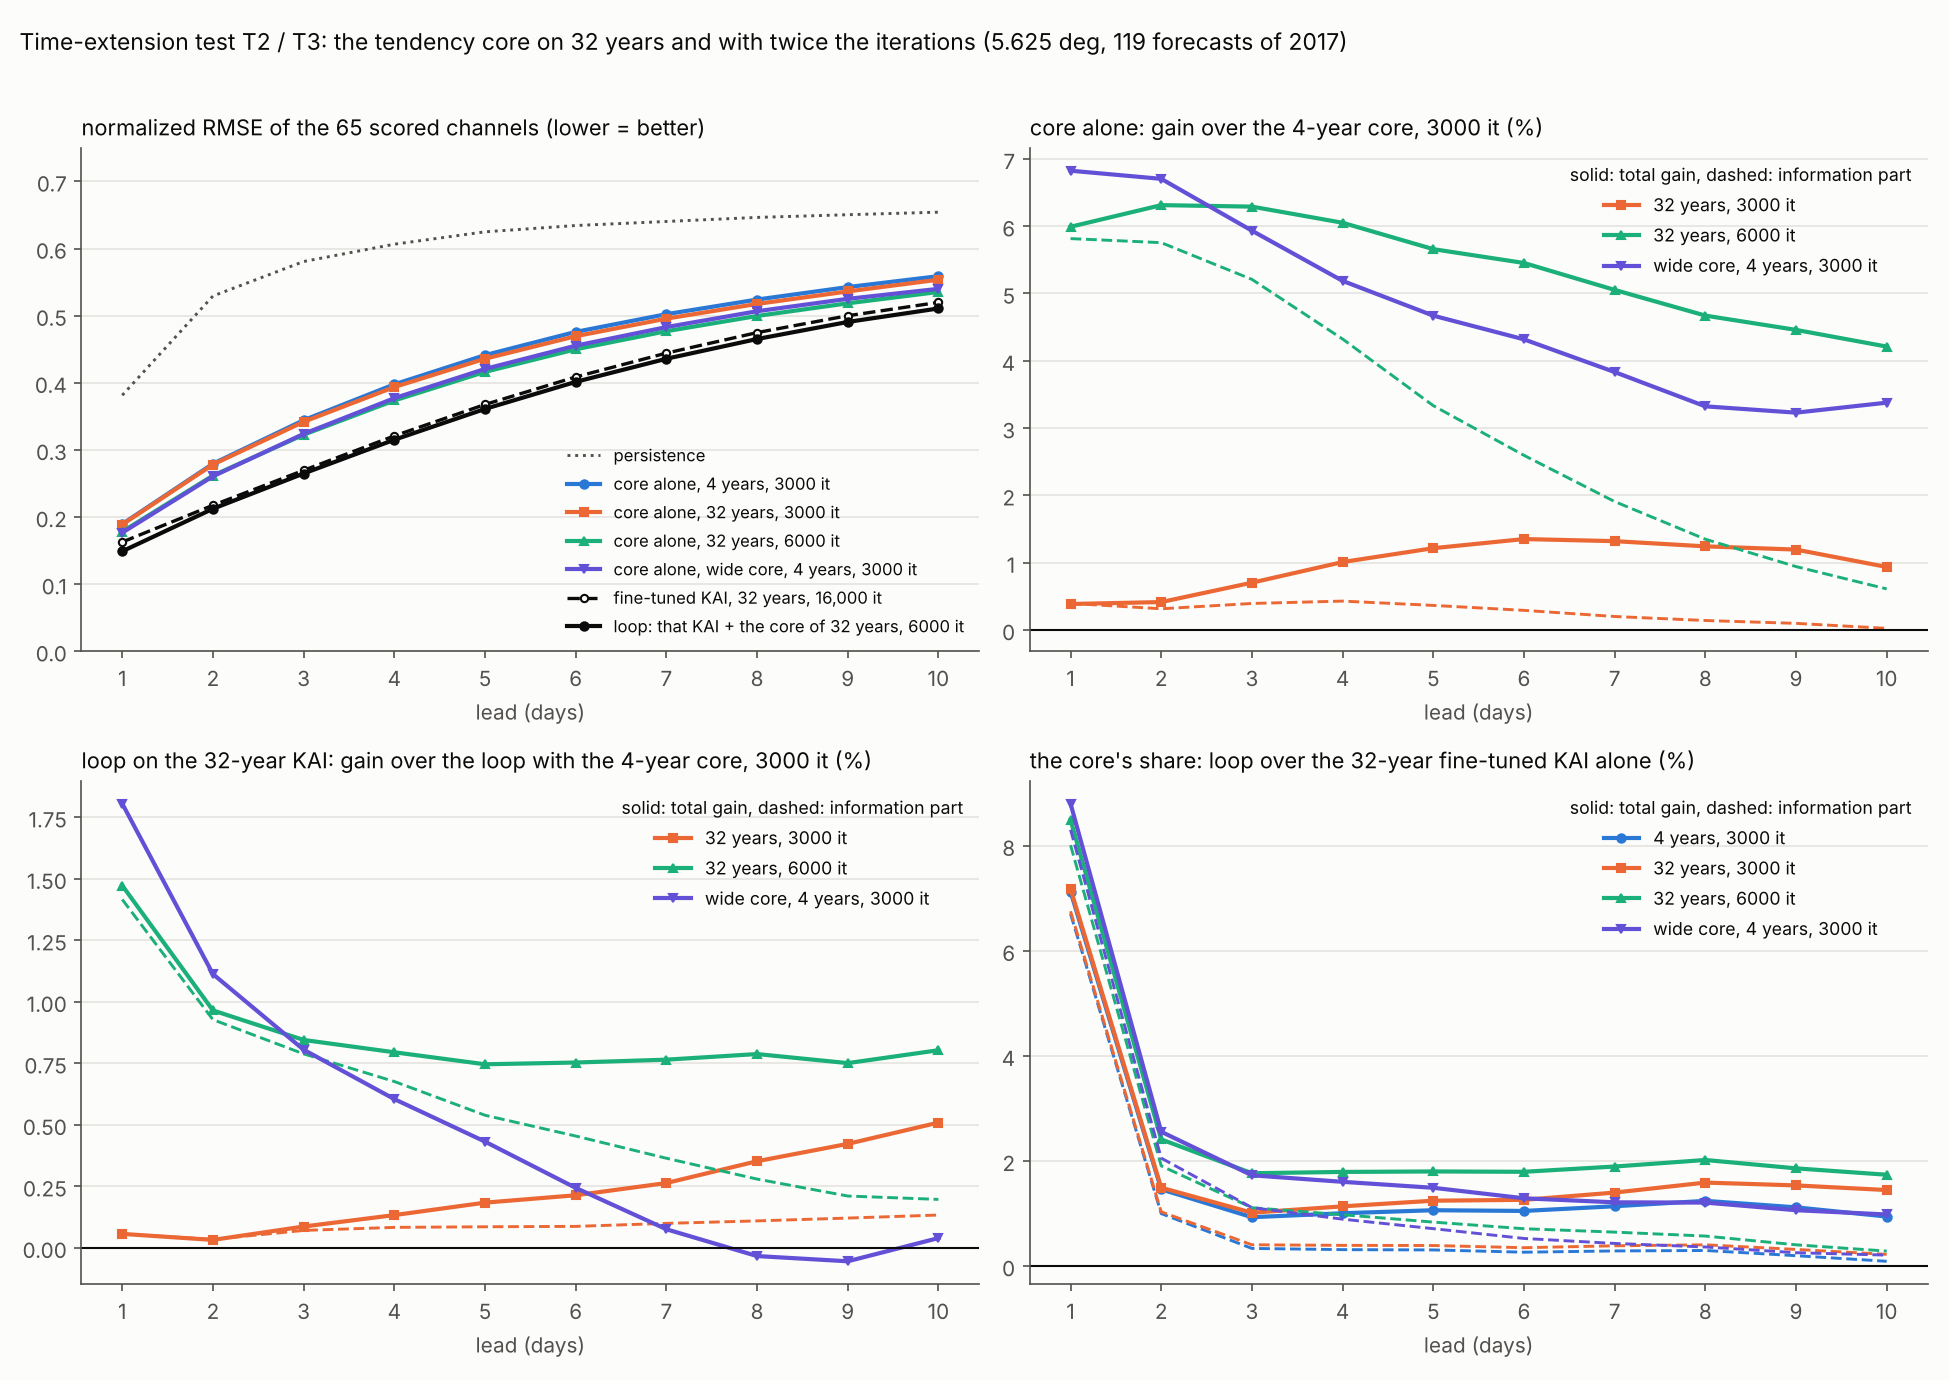
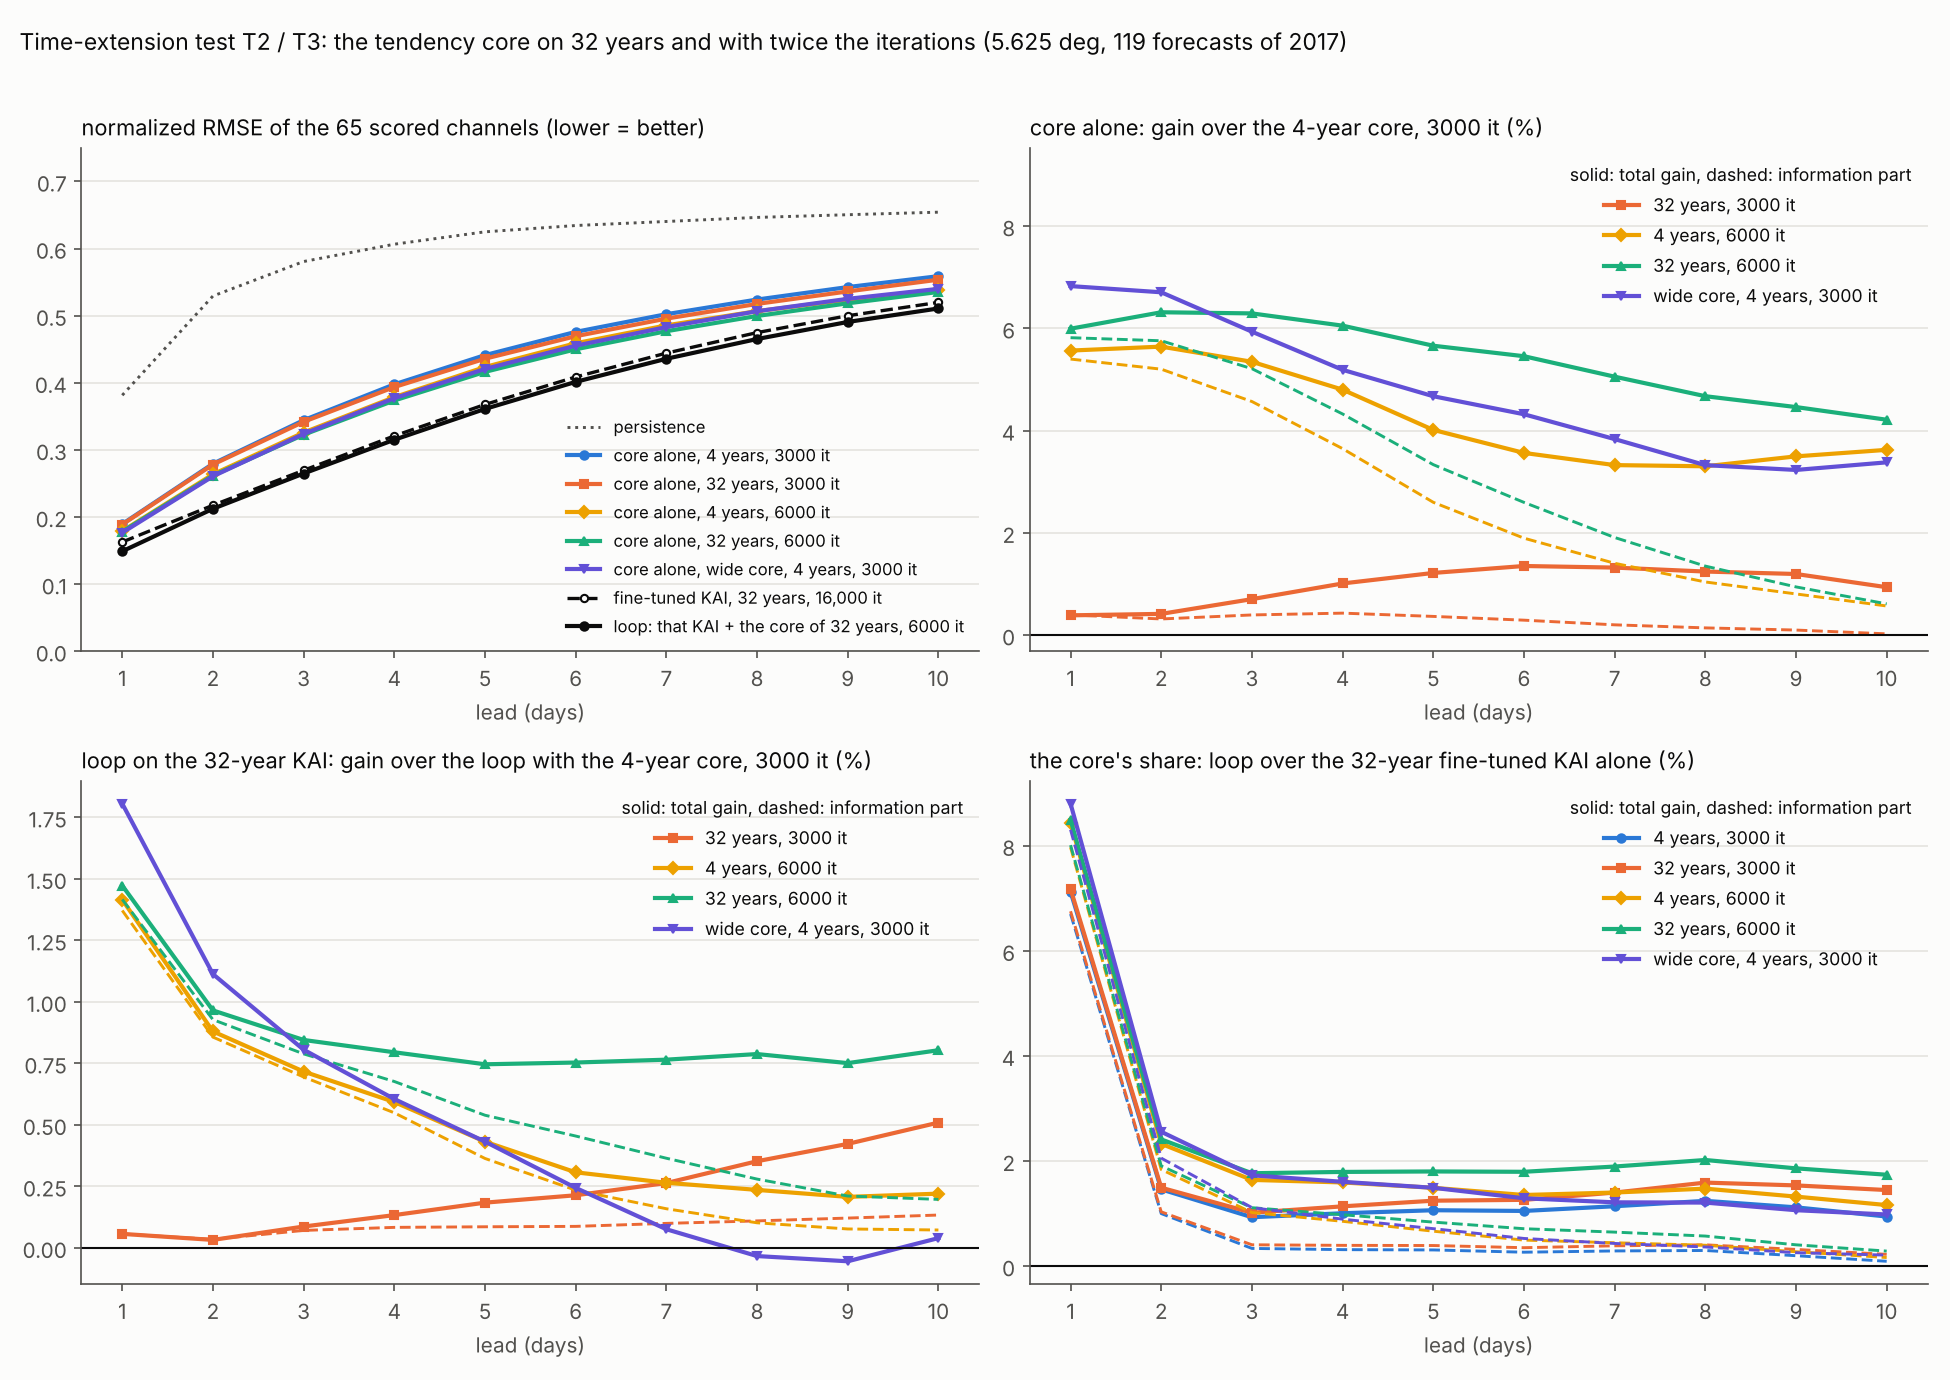
Time extension doc: score T3 (control: 4-year core with iterations x 2)
The control separates years from iterations. Iterations x 2 alone give +5.6/+5.3/+4.0/+3.3/+3.6 %
for the core alone (4 years), the same as at 32 years; the years add +0.5/+1.0/+1.7/+1.8/+0.6 %
at 6000 iterations (information +0.4/+0.7/+0.8/+0.5/0.0) and +0.1..+0.6 % in the coupled loop
on the 32-year KAI. The gain of T3a was an undertrained core trained longer, not the years.
fig_T3 now has the control line.

Claude-Session: https://claude.ai/code/session_01Hhac8noTWqo3Xz1rCmnjmf

diff --git a/scripts/plot_kai_time_extension.py b/scripts/plot_kai_time_extension.py
@@ -254,6 +254,7 @@ def fig_T3(run, out):
     p = ax[0, 1]
     for tag, c, name, mk in cores[1:]:
         gain(p, tag, cores[0][0], c, name, mk)
+    p.set_ylim(None, 1.33 * p.get_ylim()[1])  # room for the legend above the lines
     finish(p, "core alone: gain over the 4-year core, 3000 it (%)")
 
     p = ax[1, 0]

diff --git a/docs/kai_time_extension.md b/docs/kai_time_extension.md
@@ -4,7 +4,7 @@
 
 이렇게 읽었습니다: 학습 기간을 4년에서 32년으로 늘릴 때 (1) 지금 크기의 모델이 그 자료를 쓸 수 있는지, (2) 크기와 반복 수 가운데 무엇을 함께 늘려야 하는지, (3) 정규화와 기후값은 그대로 두어도 되는지를 5.625° CPU 시험으로 잽니다. 이 문서의 KAI는 5.625° 시험용으로 줄인 작은 KAI(0.43 M, 우리가 4년으로 다시 학습한 것)이고 원본 checkpoint(7.57 M, 32년)가 아닙니다.
 
-**상태(2026-11-15 04:00 KST): 진단 두 가지(2, 3절), KAI 쪽 채점 T1(5절)과 T1b(6절), 32년 core의 채점 T2(7.1절), 32년 반복 2배 core의 채점 T3a(7.2절), driver 설정(8절)이 끝났습니다. 4년 반복 2배 대조(T3)와 core의 적응 단계(T2b)는 진행 중입니다.**
+**상태(2026-11-15 09:20 KST): 진단 두 가지(2, 3절), KAI 쪽 채점 T1(5절)과 T1b(6절), core 쪽 채점 T2(7.1절), T3a(7.2절), T3(7.3절), driver 설정(8절)이 끝났습니다. core의 적응 단계(T2b)는 진행 중입니다.**
 
 ## 요약 (지금까지)
 
@@ -16,7 +16,7 @@
 6. **최근 연도 적응 단계는 전체로는 손해이고, 이득은 느린 평균 상태에만 있습니다.** 32년 학습 뒤 최근 4년으로 미세조정하면 총 +0.1 / −0.2 / −0.4 / −0.6 / −0.7 %입니다. 띠 평균(k0)은 +1.1 / +0.7 / +0.7 / +1.1 / +1.8 %, t2m은 10일에 +1.9 % 좋아지고 파동(행성 규모, 종관 규모)은 −0.3 ~ −1.0 % 나빠집니다. 가중치 전체를 최근 연도에 맞추는 구조는 필요하지 않고, 필요가 있다면 평균 상태만 맞추는 작은 구조입니다(5.6절).
 7. **기간이 일찍 끝나도 나빠지지 않습니다.** 1980 ~ 2011년으로 학습한 KAI(시험 연도보다 6년 일찍 끝남)는 1984 ~ 2015년 KAI와 −0.2 ~ +0.9 % 안에서 같고, 그 KAI를 2012 ~ 2015년으로 적응시켜도 +0.3 / −0.1 / −0.6 / −1.0 / −1.0 %입니다. 띠 평균은 전체 오차의 8 ~ 10 %라서 평균 상태만 맞추는 구조의 상한은 총 +0.1 ~ +0.2 %입니다. KAI 쪽에는 시간 적응 구조를 올릴 근거가 없습니다(6절).
 8. **core도 연도만으로는 거의 움직이지 않습니다.** baseline core를 32년으로(반복 수 그대로) 학습하면 혼자 +0.4 / +0.7 / +1.2 / +1.3 / +0.9 %(정보 항 +0.4까지), 32년 KAI 위의 되먹임에서 +0.1 / +0.1 / +0.2 / +0.3 / +0.5 %입니다. core의 몫은 +7.1 / +0.9 / +1.1 / +1.1 / +0.9 %에서 +7.2 / +1.0 / +1.2 / +1.4 / +1.4 %가 됩니다(7.1절).
-9. **반복 수를 같이 늘리면 core도 좋아집니다.** 32년에 반복 2배(6000회)로 학습한 baseline core는 32년 반복 1배 core보다 혼자 +5.6 / +5.6 / +4.5 / +3.8 / +3.3 %(정보 항 +5.4 / +4.9 / +3.0 / +1.7 / +0.6, 650칸 전부 좋아짐)이고, 파라미터가 두 배인 넓은 4년 core와 같은 수준이 됩니다. 32년 KAI 위의 되먹임에서는 +1.4 / +0.8 / +0.6 / +0.5 / +0.3 %이고 core의 몫은 +7.2 / +1.0 / +1.2 / +1.4 / +1.4 %에서 +8.5 / +1.8 / +1.8 / +1.9 / +1.7 %가 됩니다. 이 이득이 연도의 것인지 반복 수의 것인지는 4년 반복 2배 대조(T3)가 가릅니다(7.2절).
+9. **core를 올리는 것도 연도가 아니라 반복 수입니다.** baseline core를 4년 그대로 반복 2배(6000회)로 학습하면 혼자 +5.6 / +5.3 / +4.0 / +3.3 / +3.6 %(정보 항 +5.4 / +4.6 / +2.6 / +1.4 / +0.6)이고, 파라미터가 두 배인 넓은 core와 같은 수준이 됩니다. 그 위에 연도를 32년으로 늘린 몫은 혼자 +0.5 / +1.0 / +1.7 / +1.8 / +0.6 %(정보 항 +0.4 / +0.7 / +0.8 / +0.5 / +0.0), 32년 KAI 위의 되먹임에서 +0.1 / +0.1 / +0.3 / +0.5 / +0.6 %입니다. core의 몫은 4년 3000회 +7.1 / +0.9 / +1.1 / +1.1 / +0.9 %, 4년 6000회 +8.4 / +1.6 / +1.5 / +1.4 / +1.2 %, 32년 6000회 +8.5 / +1.8 / +1.8 / +1.9 / +1.7 %입니다. 지금까지의 core는 덜 익은 상태였고, 연도의 효과는 반복 2배에서도 학습 한 번의 변동(1 % 안팎) 근처입니다(7.2, 7.3절).
 10. 진단에서 나온 것(2, 3절): 4년 모델의 과적합 폭은 +1.0 ~ +2.2 %뿐입니다. 기후값 추세 보정은 필요하지 않습니다(32년 기후값이 4년 것보다 2017년에 1.4 % 가깝고, 예외는 t2m 하나). 지금까지의 ACC는 4년 기후값의 잡음 때문에 조금 높게 나와 있습니다(10일 0.214가 32년 기준 0.191). 정규화는 기간을 바꿔도 0.03 표준편차 이내로 같습니다.
 
 ![1차 채점](kai_time_extension/fig_T1.png)
@@ -485,7 +485,94 @@ core의 몫 (32년 KAI 위의 되먹임 대 32년 KAI 혼자):
 
 ![core 쪽의 시간 확장](kai_time_extension/fig_T3.png)
 
-그림: 왼쪽 위는 core 혼자의 nRMSE, 오른쪽 위는 4년 3000회 core 대비 혼자의 이득, 왼쪽 아래는 32년 KAI 위의 되먹임에서 같은 비교, 오른쪽 아래는 core의 몫입니다. 실선은 총 이득, 점선은 정보 항입니다. 4년 반복 2배 대조의 선은 T3 뒤에 추가됩니다.
+그림: 왼쪽 위는 core 혼자의 nRMSE, 오른쪽 위는 4년 3000회 core 대비 혼자의 이득, 왼쪽 아래는 32년 KAI 위의 되먹임에서 같은 비교, 오른쪽 아래는 core의 몫입니다. 실선은 총 이득, 점선은 정보 항입니다. 노란 선(4년, 6000회)은 7.3절의 대조입니다.
+
+### 7.3 T3: 대조, 4년 그대로 반복 수만 2배 (연도인가 반복 수인가)
+
+7.2절의 core는 연도 8배와 반복 2배를 함께 받았습니다. 대조로 baseline core를 4년(2012 ~ 2015) 그대로 6000회 학습했습니다(`core_gngmz8_x2`, CPU 4.8시간). 검증 loss(2016년): 4년 3000회 0.2379, 32년 3000회 0.2362, 4년 6000회 0.2259, 32년 6000회 0.2239.
+
+| 모델 | 1일 | 3일 | 5일 | 7일 | 10일 | ACC 5일 | ACC 10일 |
+|---|---|---|---|---|---|---|---|
+| core 4년, 3000회 (혼자) (`core_gngmz8`) | 0.190 | 0.344 | 0.441 | 0.502 | 0.559 | 0.513 | 0.175 |
+| core 4년, 6000회 (혼자) (`core_gngmz8_x2`) | 0.179 | 0.326 | 0.423 | 0.485 | 0.539 | 0.554 | 0.208 |
+| core 32년, 3000회 (혼자) (`core_gngmz8_y32`) | 0.189 | 0.342 | 0.436 | 0.496 | 0.554 | 0.520 | 0.176 |
+| core 32년, 6000회 (혼자) (`core_gngmz8_y32x2`) | 0.178 | 0.323 | 0.416 | 0.477 | 0.535 | 0.564 | 0.208 |
+| 넓은 core 4년, 3000회 (혼자) (`core_gngmz8w`) | 0.177 | 0.324 | 0.421 | 0.483 | 0.540 | 0.561 | 0.218 |
+| 미세조정 KAI 4년 (`kai_ro`) | 0.223 | 0.337 | 0.423 | 0.483 | 0.538 | 0.526 | 0.214 |
+| 미세조정 KAI 32년, 반복 8배 (`kai_y32x8ro`) | 0.163 | 0.270 | 0.368 | 0.444 | 0.520 | 0.662 | 0.303 |
+| 되먹임: 4년 KAI + core 4년 3000회 | 0.178 | 0.315 | 0.407 | 0.471 | 0.527 | 0.575 | 0.239 |
+| 되먹임: 4년 KAI + core 4년 6000회 | 0.172 | 0.306 | 0.400 | 0.466 | 0.524 | 0.594 | 0.252 |
+| 되먹임: 4년 KAI + core 32년 6000회 | 0.171 | 0.304 | 0.395 | 0.459 | 0.517 | 0.603 | 0.258 |
+| 되먹임: 32년 KAI + core 4년 3000회 | 0.151 | 0.267 | 0.364 | 0.439 | 0.515 | 0.672 | 0.310 |
+| 되먹임: 32년 KAI + core 4년 6000회 | 0.149 | 0.265 | 0.362 | 0.438 | 0.514 | 0.677 | 0.312 |
+| 되먹임: 32년 KAI + core 32년 3000회 | 0.151 | 0.267 | 0.363 | 0.438 | 0.512 | 0.674 | 0.313 |
+| 되먹임: 32년 KAI + core 32년 6000회 | 0.149 | 0.265 | 0.361 | 0.436 | 0.511 | 0.679 | 0.317 |
+| 되먹임: 32년 KAI + 넓은 core | 0.148 | 0.265 | 0.362 | 0.439 | 0.515 | 0.678 | 0.314 |
+| 혼합: 32년 KAI + core 4년 6000회 | 0.149 | 0.264 | 0.359 | 0.426 | 0.484 | 0.677 | 0.317 |
+| 혼합: 32년 KAI + core 32년 6000회 | 0.149 | 0.264 | 0.358 | 0.425 | 0.484 | 0.678 | 0.314 |
+
+연도와 반복 수를 따로 본 것 (core 혼자):
+
+| 비교 | 총 이득 % | 정보 항 | 진폭 항 | 유의하게 좋아진 / 나빠진 칸 (650) |
+|---|---|---|---|---|
+| 반복 2배, 4년에서 (4년 6000회 대 4년 3000회) | +5.6 / +5.3 / +4.0 / +3.3 / +3.6 | +5.4 / +4.6 / +2.6 / +1.4 / +0.6 | +0.2 / +0.8 / +1.4 / +1.9 / +3.1 | 636 / 0 |
+| 반복 2배, 32년에서 (32년 6000회 대 32년 3000회) | +5.6 / +5.6 / +4.5 / +3.8 / +3.3 | +5.4 / +4.9 / +3.0 / +1.7 / +0.6 | +0.2 / +0.8 / +1.5 / +2.0 / +2.7 | 650 / 0 |
+| 연도 8배, 3000회에서 (32년 3000회 대 4년 3000회, 7.1절) | +0.4 / +0.7 / +1.2 / +1.3 / +0.9 | +0.4 / +0.4 / +0.4 / +0.2 / +0.0 | −0.0 / +0.3 / +0.8 / +1.1 / +0.9 | 484 / 24 |
+| 연도 8배, 6000회에서 (32년 6000회 대 4년 6000회) | +0.5 / +1.0 / +1.7 / +1.8 / +0.6 | +0.4 / +0.7 / +0.8 / +0.5 / +0.0 | +0.0 / +0.3 / +0.9 / +1.2 / +0.5 | 507 / 14 |
+| 둘 다 (32년 6000회 대 4년 3000회) | +6.0 / +6.3 / +5.7 / +5.1 / +4.2 | +5.8 / +5.2 / +3.3 / +1.9 / +0.6 | +0.2 / +1.1 / +2.3 / +3.1 / +3.6 | 644 / 0 |
+
+되먹임에서:
+
+| 비교 | 총 이득 % | 정보 항 | 진폭 항 | 유의하게 좋아진 / 나빠진 칸 (650) |
+|---|---|---|---|---|
+| 32년 KAI 위, 반복 2배 (4년 core) | +1.4 / +0.7 / +0.4 / +0.3 / +0.2 | +1.4 / +0.7 / +0.4 / +0.2 / +0.1 | +0.0 / +0.0 / +0.1 / +0.1 / +0.1 | 486 / 11 |
+| 32년 KAI 위, 반복 2배 (32년 core) | +1.4 / +0.8 / +0.6 / +0.5 / +0.3 | +1.4 / +0.7 / +0.5 / +0.3 / +0.1 | +0.0 / +0.0 / +0.1 / +0.2 / +0.2 | 559 / 2 |
+| 32년 KAI 위, 연도 8배 (3000회, 7.1절) | +0.1 / +0.1 / +0.2 / +0.3 / +0.5 | +0.1 / +0.1 / +0.1 / +0.1 / +0.1 | +0.0 / +0.0 / +0.1 / +0.1 / +0.3 | 268 / 23 |
+| 32년 KAI 위, 연도 8배 (6000회) | +0.1 / +0.1 / +0.3 / +0.5 / +0.6 | +0.0 / +0.1 / +0.2 / +0.2 / +0.1 | +0.0 / +0.0 / +0.1 / +0.3 / +0.4 | 352 / 9 |
+| 32년 KAI 위, 둘 다 | +1.5 / +0.8 / +0.7 / +0.8 / +0.8 | +1.4 / +0.8 / +0.5 / +0.4 / +0.2 | +0.0 / +0.0 / +0.2 / +0.3 / +0.5 | 623 / 0 |
+| 4년 KAI 위, 둘 다 | +4.0 / +3.4 / +3.0 / +2.6 / +1.9 | +3.9 / +3.1 / +2.2 / +1.2 / +0.4 | +0.1 / +0.2 / +0.8 / +1.3 / +1.4 | 646 / 0 |
+
+core의 몫 (32년 KAI 위의 되먹임 대 32년 KAI 혼자):
+
+| core | 총 이득 % | 정보 항 | 진폭 항 | 유의하게 좋아진 / 나빠진 칸 (650) |
+|---|---|---|---|---|
+| 4년, 3000회 | +7.1 / +0.9 / +1.1 / +1.1 / +0.9 | +6.7 / +0.3 / +0.3 / +0.3 / +0.1 | +0.2 / +0.5 / +0.7 / +0.8 / +0.8 | 344 / 37 |
+| 4년, 6000회 | +8.4 / +1.6 / +1.5 / +1.4 / +1.2 | +8.0 / +1.0 / +0.7 / +0.4 / +0.2 | +0.2 / +0.5 / +0.8 / +0.9 / +1.0 | 464 / 12 |
+| 32년, 3000회 | +7.2 / +1.0 / +1.2 / +1.4 / +1.4 | +6.8 / +0.4 / +0.4 / +0.4 / +0.2 | +0.2 / +0.5 / +0.8 / +1.0 / +1.2 | 431 / 31 |
+| 32년, 6000회 | +8.5 / +1.8 / +1.8 / +1.9 / +1.7 | +8.0 / +1.1 / +0.8 / +0.6 / +0.3 | +0.2 / +0.5 / +0.9 / +1.2 / +1.4 | 564 / 5 |
+| 넓은 core 4년, 3000회 | +8.8 / +1.7 / +1.5 / +1.2 / +1.0 | +8.3 / +1.1 / +0.7 / +0.4 / +0.2 | +0.2 / +0.5 / +0.7 / +0.7 / +0.7 | 399 / 14 |
+
+변수별:
+
+| 비교 | t2m | t850 | z500 | u850 | msl |
+|---|---|---|---|---|---|
+| core 혼자: 반복 2배, 4년에서 | +4.5 / +5.0 / +4.0 / +3.0 / +3.2 | +4.5 / +5.2 / +4.1 / +3.0 / +2.8 | +7.6 / +6.0 / +3.6 / +2.0 / +1.3 | +4.9 / +4.8 / +3.3 / +2.7 / +2.5 | +6.9 / +5.6 / +3.2 / +1.7 / +0.1 |
+| core 혼자: 연도 8배, 6000회에서 | +0.8 / +1.2 / +1.3 / +1.6 / +0.2 | +0.4 / +1.3 / +1.7 / +1.5 / +0.3 | +1.4 / +2.3 / +3.0 / +2.9 / +1.3 | +0.5 / +1.2 / +1.8 / +2.2 / −0.4 | +1.2 / +1.4 / +2.5 / +2.2 / +0.6 |
+| 32년 KAI 위의 되먹임: 반복 2배 (4년 core) | +3.1 / +2.4 / +1.8 / +1.2 / +1.1 | +1.8 / +0.7 / +0.6 / +0.5 / +0.8 | +2.5 / +0.7 / +0.2 / −0.0 / +0.1 | +0.9 / +0.5 / +0.2 / +0.2 / +0.3 | +1.6 / +0.6 / +0.2 / +0.2 / +0.3 |
+| 32년 KAI 위의 되먹임: 연도 8배 (6000회) | +0.7 / +0.7 / +0.5 / +0.2 / −0.5 | +0.4 / +0.5 / +0.2 / +0.2 / −0.2 | +0.3 / +0.4 / +0.8 / +0.8 / +0.8 | +0.1 / +0.1 / +0.4 / +0.4 / +0.6 | +0.3 / +0.1 / +0.6 / +0.5 / +0.7 |
+| 4년 6000회 core의 몫, 32년 KAI 위 | +38.3 / +17.7 / +13.8 / +12.3 / +12.4 | +18.3 / +1.5 / +2.1 / +2.7 / +3.1 | +13.0 / +0.4 / +0.8 / +0.7 / −0.4 | +4.4 / +0.2 / +0.7 / +0.8 / +0.4 | +7.5 / +0.1 / +0.9 / +1.0 / +0.7 |
+
+- **7.2절의 이득은 거의 전부 반복 수의 것입니다.** 4년 그대로 반복만 2배로 해도 혼자 +5.6 / +5.3 / +4.0 / +3.3 / +3.6 %이고, 32년에서의 반복 2배(+5.6 / +5.6 / +4.5 / +3.8 / +3.3 %)와 1 ~ 3일에서 같습니다. 7.2절의 취약점 1번이 맞았습니다: "연도 확장의 효과"가 아니라 "덜 익은 core를 더 익힌 효과"입니다. 4년 core의 과적합 폭이 +0.3 %뿐이었던 것(7.1절)과 맞습니다.
+- **연도의 몫은 반복 2배에서 조금 커지지만 여전히 작습니다.** 혼자 +0.5 / +1.0 / +1.7 / +1.8 / +0.6 %이고, 정보 항은 3000회에서의 +0.4 / +0.4 / +0.4 / +0.2 / +0.0에서 +0.4 / +0.7 / +0.8 / +0.5 / +0.0이 됩니다. 3 ~ 5일에서 두 배쯤이지만 1 % 아래입니다. 변수로는 z500(+1.4 / +2.3 / +3.0 / +2.9 / +1.3), msl(+1.2 / +1.4 / +2.5 / +2.2 / +0.6)이 가장 큽니다. 연도와 반복 수를 함께 늘린 것이 각각의 합보다 큰 정도(상승 작용)는 0.0 / +0.3 / +0.5 / +0.5 / −0.3 %p로, 학습 한 번의 변동 안쪽입니다.
+- **32년 KAI 위의 되먹임에서 연도의 몫은 +0.1 / +0.1 / +0.3 / +0.5 / +0.6 %입니다**(정보 항 +0.0 ~ +0.2). 반복 2배의 몫은 +1.4 / +0.7 / +0.4 / +0.3 / +0.2 %입니다. core의 몫으로 보면 4년 3000회 +7.1 / +0.9 / +1.1 / +1.1 / +0.9 %에서 반복 2배로 +8.4 / +1.6 / +1.5 / +1.4 / +1.2 %, 거기에 32년으로 +8.5 / +1.8 / +1.8 / +1.9 / +1.7 %입니다.
+- **약한 KAI 위에서는 같은 core 개선이 훨씬 크게 남습니다.** 4년 KAI 위의 되먹임에서 32년 6000회 core는 4년 3000회 core보다 +4.0 / +3.4 / +3.0 / +2.6 / +1.9 %이고, 32년 KAI 위에서는 +1.5 / +0.8 / +0.7 / +0.8 / +0.8 %입니다. 5.4절과 같은 일입니다: 길게 학습한 KAI가 이미 맞히는 부분이 겹칩니다.
+- **KAI와 같은 그림입니다.** KAI도 연도만으로는 +0.3 ~ +0.9 %였고(5.2절), 연도의 이득(+1.2 ~ +2.5 %)은 반복 8배에서 4년 모델이 과적합으로 넘어간 뒤(과적합 폭 +6.8 %)에야 나왔습니다(5.3절). core는 반복 2배에서 검증 loss가 4년 0.2379에서 0.2259로 내려갔고, 그때 4년과 32년의 차이는 0.9 %입니다. 자료가 모자라는 지점에 아직 오지 않은 것으로 읽습니다. 이 읽기는 반복 2배 core의 과적합 폭으로 확인할 수 있습니다(7.5절 예정).
+
+기대하신 것("우리쪽도 연도 확장 적용하면 효과가 늘것 같긴합니다")에 대한 답:
+
+1. 방향은 맞습니다. 32년 core는 4년 core보다 모든 조합에서 같거나 좋았고 나빠진 곳은 없습니다.
+2. 크기는 지금 설정(0.26 M, 6000회까지)에서 작습니다: 혼자 +0.5 ~ +1.8 %, 되먹임에서 +0.1 ~ +0.6 %. 되먹임 쪽은 학습 한 번의 변동(1 % 안팎) 안쪽이라 이 시험만으로는 있다고 말하기 어렵습니다.
+3. core를 실제로 올리는 것은 반복 수와 폭입니다. 반복 2배는 폭 2배와 같은 크기였습니다(7.2절).
+4. 1.5° 32년 실행에서는 `CORE_ITERS`가 8배(48,000회)이므로, 거기서는 core가 4년 자료를 다 쓰는 지점을 넘어 연도의 효과가 보일 수 있습니다. 8절의 `GAP=1` 단계가 그 실행에서 이것을 알려 줍니다. 4년 실행에서도 core의 반복 수를 늘리면 이득이 납니다.
+
+취약점:
+
+1. 모든 core가 seed 하나입니다. 0.5 % 아래의 차이는 seed를 바꾸면 뒤집힐 수 있습니다.
+2. CPU에서는 반복 2배가 한계입니다. 4년 반복 8배 core(18시간)를 재야 "core가 자료 부족으로 넘어가는 지점"을 직접 볼 수 있습니다.
+3. 넓은 core는 3000회, 4년으로만 쟀습니다. 넓은 core에서 반복 2배나 32년이 같은 크기를 주는지는 모릅니다.
+4. 지금까지 5.625°에서 보고한 core의 결과(구조 비교 Li ~ Lr 포함)는 모두 덜 익은 3000회 core의 것입니다. 구조 사이의 순위가 반복 수를 늘려도 같은지는 재지 않았습니다.
+
+변수별 표: `variable_table_T3.md`.
 
 ## 8. ++ 위에 올린 시간 확장 설정
 
